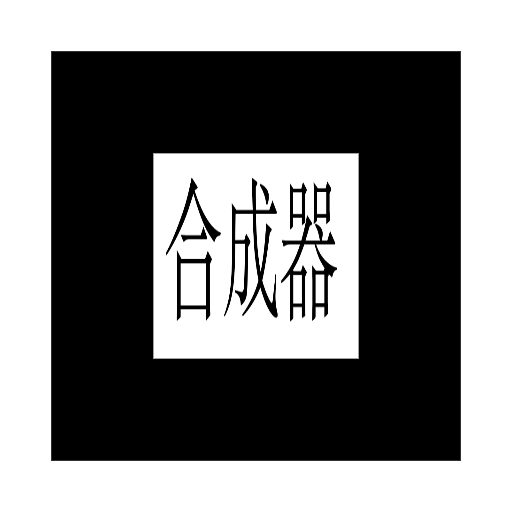
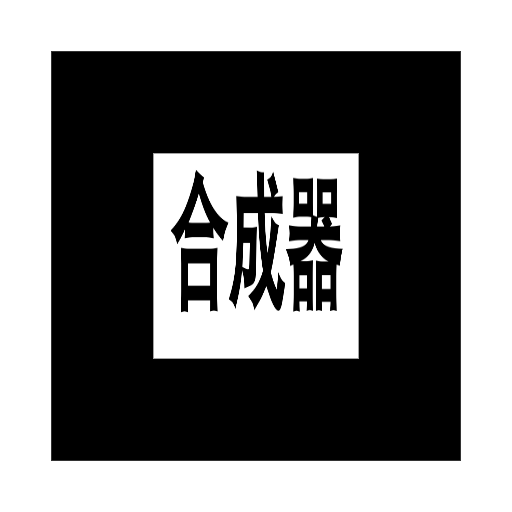
Use specified patt files for instrument cards

Changed region(s): [[0.3125, 0.3125, 0.6875, 0.625]]

diff --git a/assets/runtime.js b/assets/runtime.js
@@ -1,8 +1,8 @@
 import * as THREE from "./three.js";
-import { getAllCardTargets, getCardTarget, markerResourceMap } from "./cards.js?v=20260529-patt-binding-v2";
+import { getAllCardTargets, getCardTarget, markerResourceMap } from "./cards.js?v=20260529-patt-binding-v3";
 import { createEmptyAnchor } from "./anchor.js";
 import { hasCameraSupport, needsHttps } from "./camera.js";
-import { detectCardPoseFromFrame, trackCardPoseFromFrame } from "./tracker.js?v=20260529-patt-binding-v2";
+import { detectCardPoseFromFrame, trackCardPoseFromFrame } from "./tracker.js?v=20260529-patt-binding-v3";
 
 const $ = (selector) => document.querySelector(selector);
 

diff --git a/assets/app.js b/assets/app.js
@@ -1,1 +1,1 @@
-import "./runtime.js?v=20260529-patt-binding-v2";
+import "./runtime.js?v=20260529-patt-binding-v3";

diff --git a/index.html b/index.html
@@ -43,6 +43,6 @@
     </section>
   </main>
 
-  <script type="module" src="./assets/app.js?v=20260529-patt-binding-v2"></script>
+  <script type="module" src="./assets/app.js?v=20260529-patt-binding-v3"></script>
 </body>
 </html>

diff --git a/assets/tracker.js b/assets/tracker.js
@@ -127,6 +127,7 @@ function isRecognizedSynthCard(pose, textConfidence, dataConfidence, cardTarget)
   const patternMin = cardTarget?.patternSignature?.minConfidence ?? cardTarget?.patternMatch?.minConfidence;
   if (patternMin != null && cardTarget?.patternSignature) {
     if ((pose.patternConfidence ?? 0) < patternMin) return false;
+    return markerConfidence >= Math.min(cornerMin, 0.62);
   }
   const glyphMin = cardTarget?.glyphSignature?.minConfidence;
   if (glyphMin != null && (pose.glyphConfidence ?? 0) < glyphMin) return false;